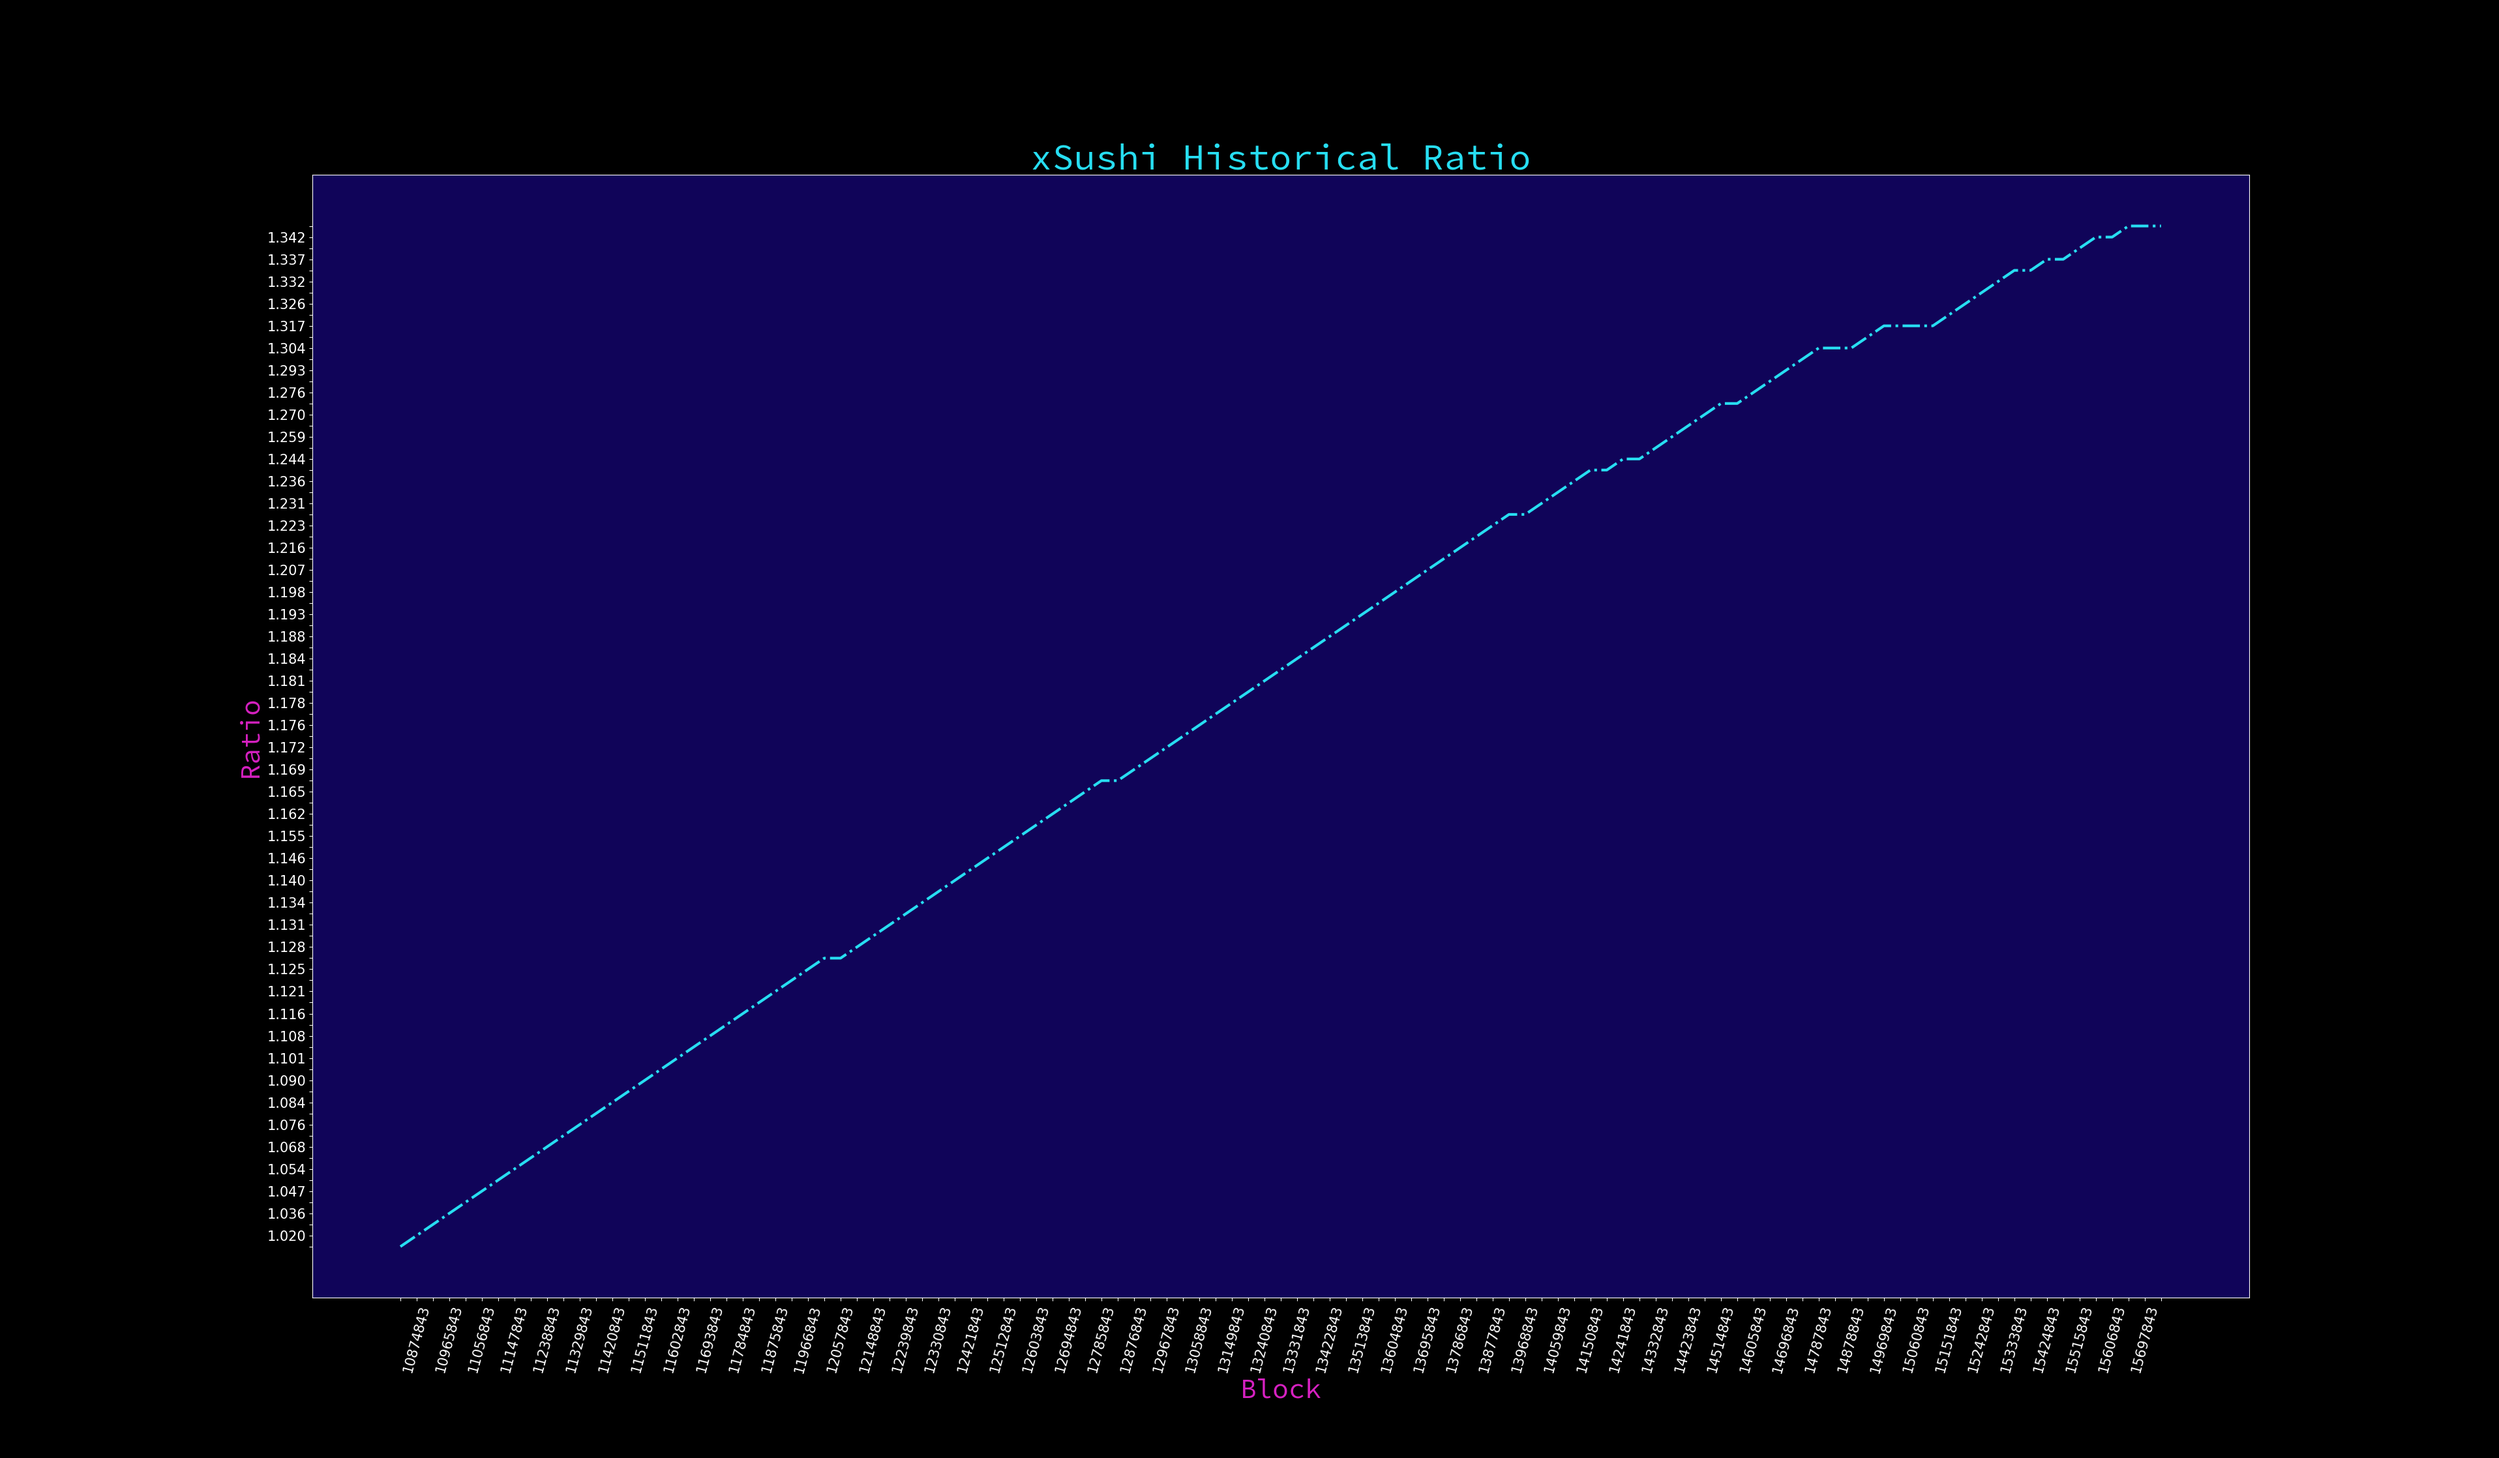
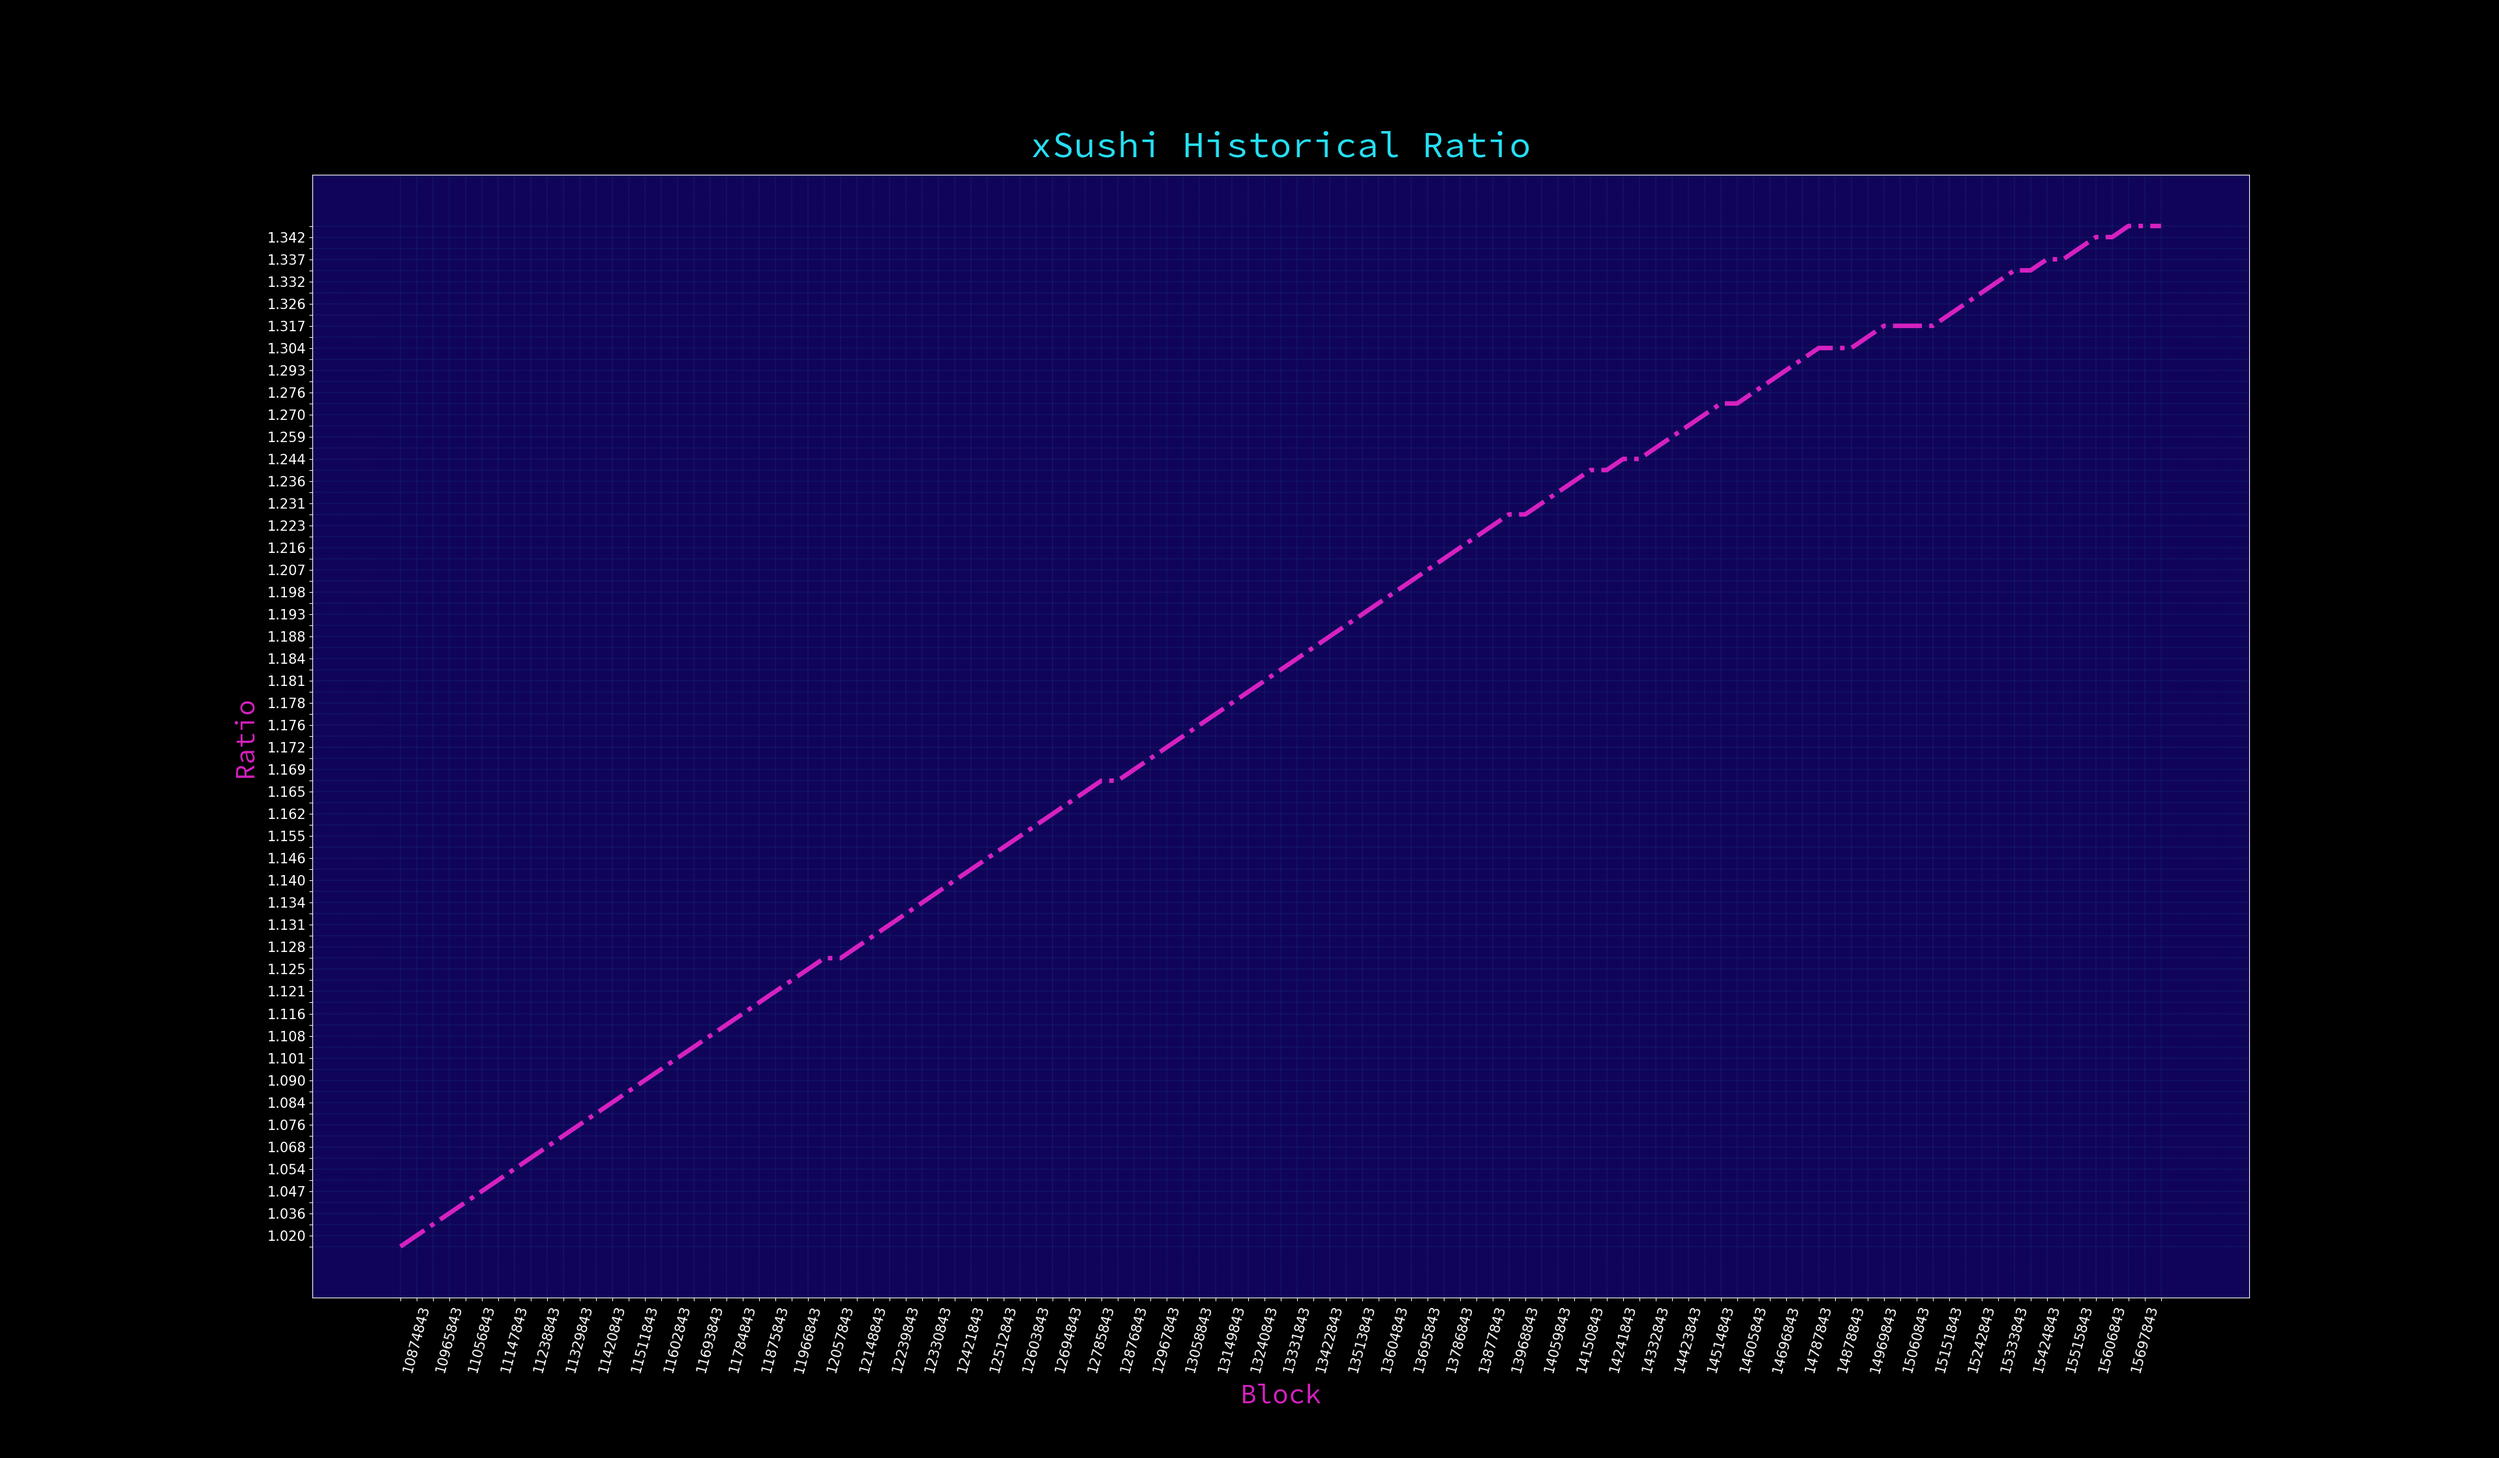
[+] housekeeping

diff --git a/plot.py b/plot.py
@@ -1,4 +1,5 @@
 import matplotlib.pyplot as plt
+import matplotlib.ticker as plticker
 from data import data as p
 
 x, y = [], []
@@ -11,20 +12,22 @@ for i in p:
 plt.figure(facecolor='#0A0226')
 plt.style.use('dark_background')
 
-plt.plot(x,y, '-.', c='#27DEF2', linewidth=3)
-
+plt.plot(x,y, '-.', c='#D621C1', lw=5)
 f0 = {'family':'Source Code Pro','color':'#27DEF2','size':40} 
 f1 = {'family':'Source Code Pro','color':'#D621C1','size':30}
 
-plt.title('xSushi Historical Ratio', fontdict=f0)
-plt.xlabel('Block', fontdict=f1)
-plt.ylabel('Ratio', fontdict=f1)
+plt.title('xSushi Historical Ratio', pad=20, fontdict=f0)
+plt.xlabel('Block', labelpad=10, fontdict=f1)
+plt.ylabel('Ratio', labelpad=10, fontdict=f1)
 
 # make readable
 plt.tick_params(axis='both', which='major', labelsize=15)
 
 plt.xticks(rotation=75)
 ax = plt.gca()
+ax.set_facecolor('#100459')
+
+plt.grid(1, ls=':', c='#27DEF2', lw='.2')
 
 for label in ax.get_xaxis().get_ticklabels()[::2]:
   label.set_visible(False)
@@ -32,7 +35,4 @@ for label in ax.get_xaxis().get_ticklabels()[::2]:
 for label in ax.get_yaxis().get_ticklabels()[::2]:
   label.set_visible(False)
 
-ax.set_facecolor('#100459')
-
-#plt.savefig('chart.png', facecolor='#0A0226', dpi=300)
 plt.show()
